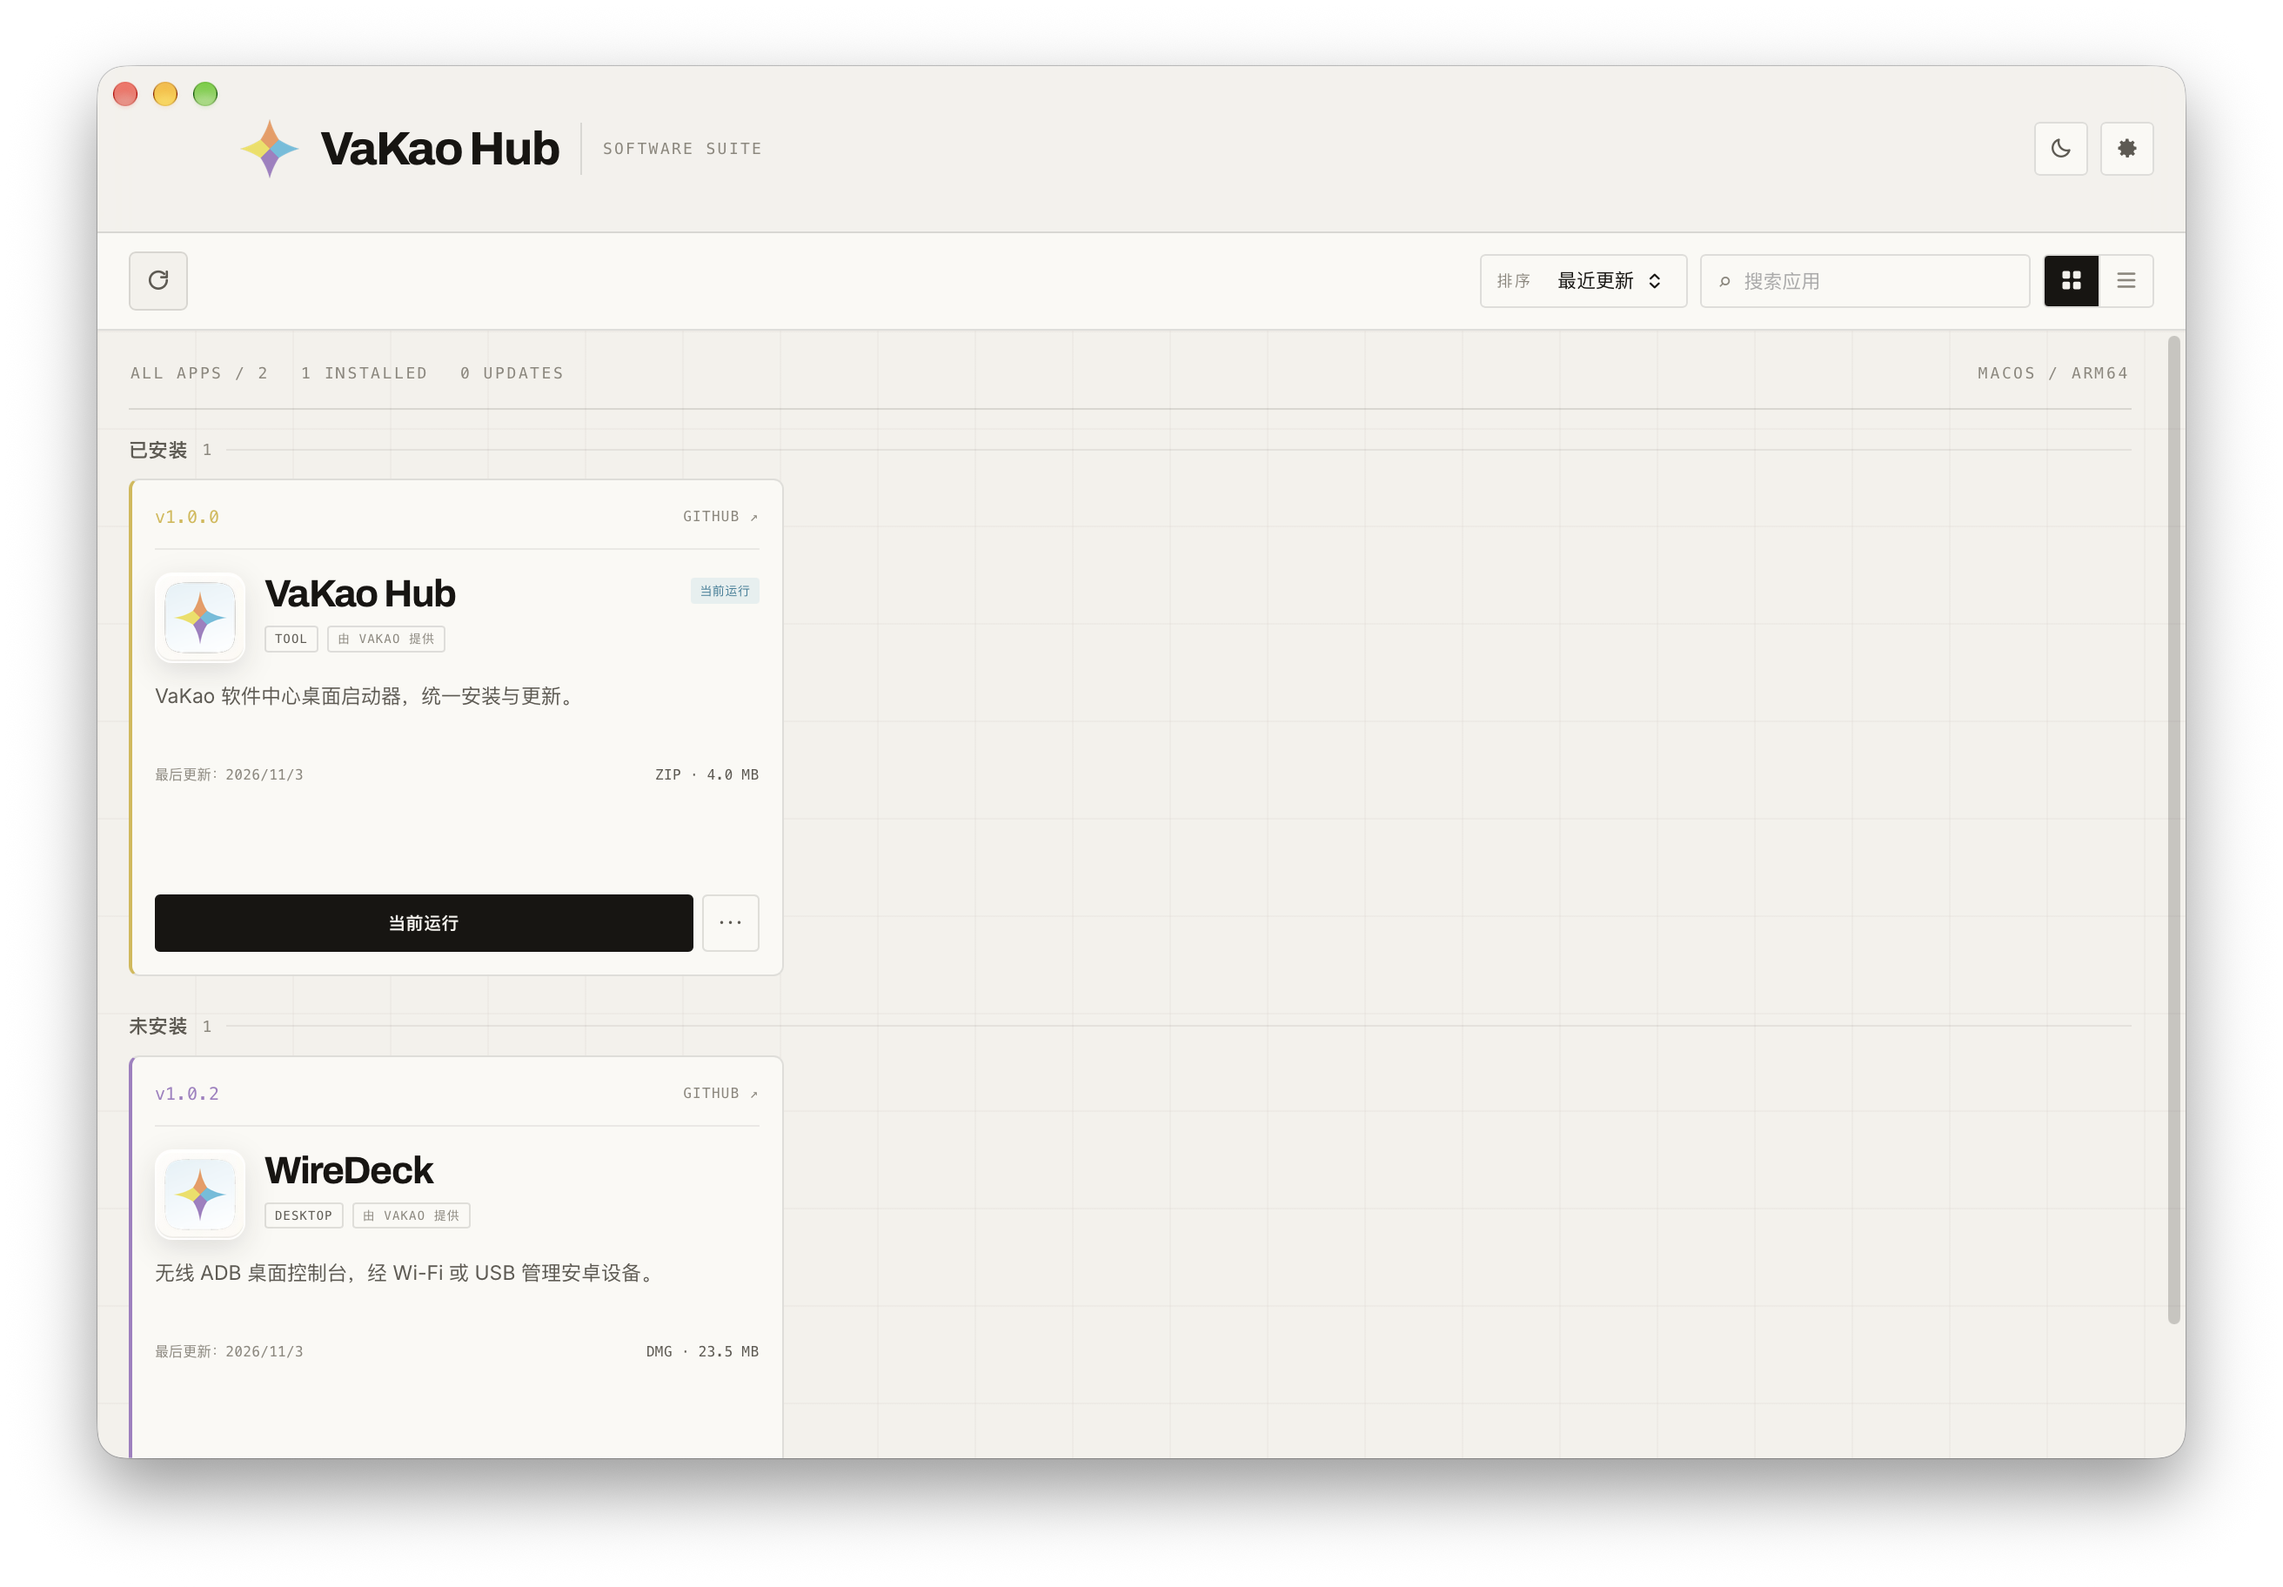
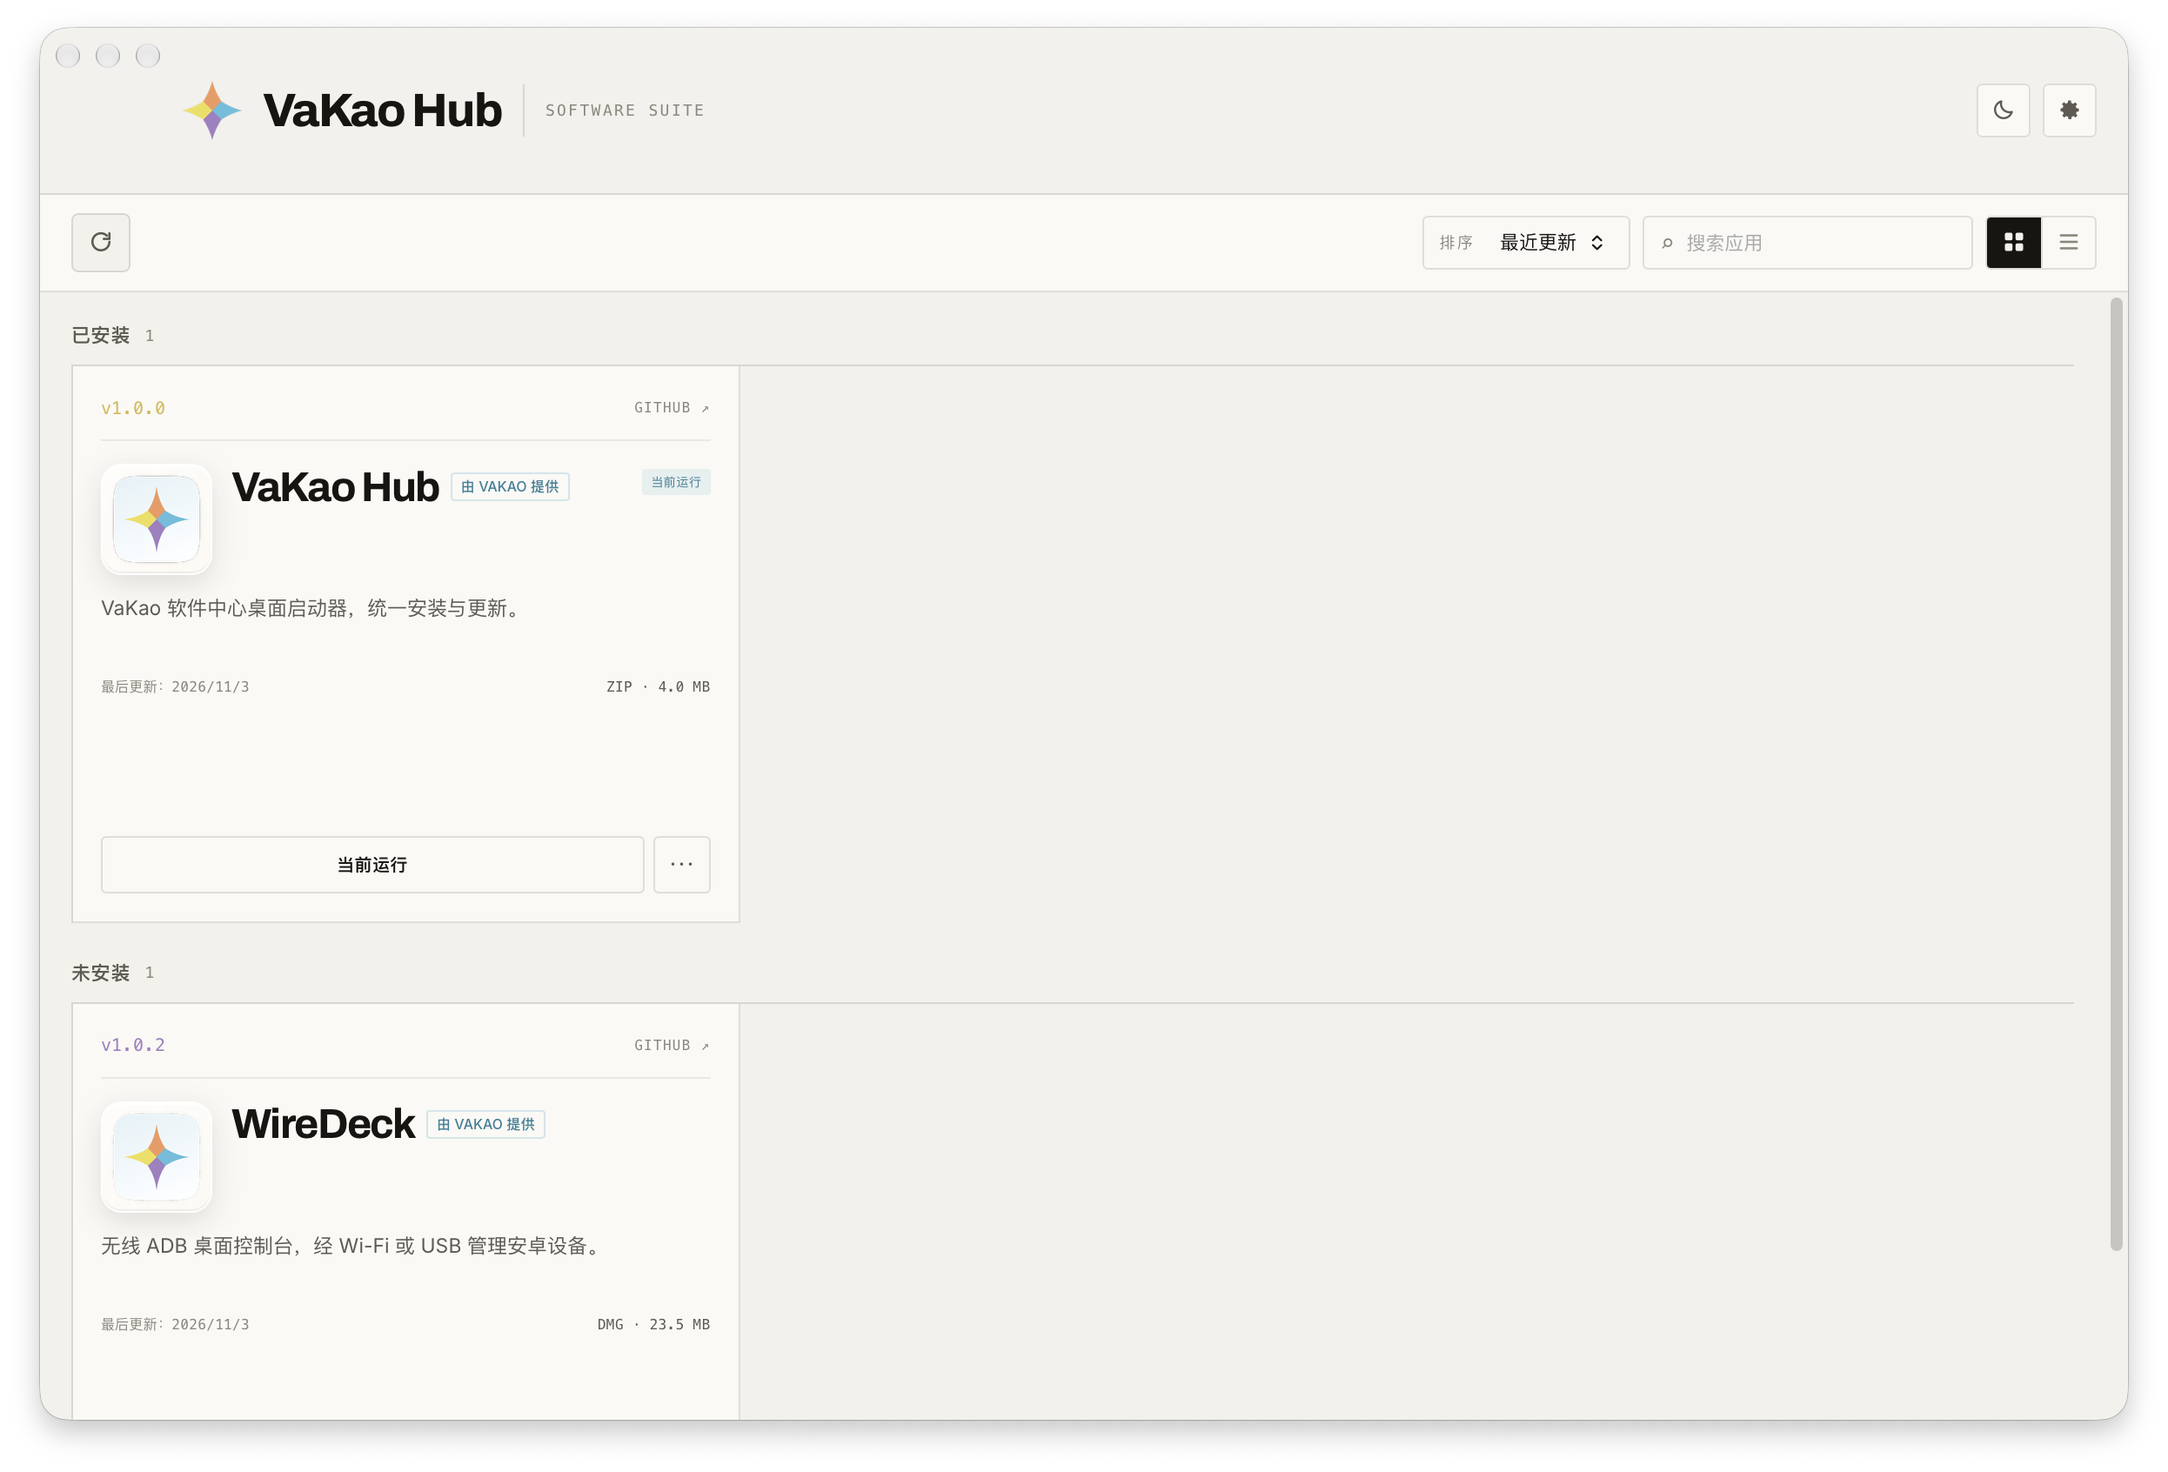
style(launcher): flatten app cards to dense grid

diff --git a/packages/launcher/frontend/src/style.css b/packages/launcher/frontend/src/style.css
@@ -356,10 +356,7 @@ button {
   min-height: 0;
   overflow-y: auto;
   padding: 16px 18px 30px;
-  background-image:
-    linear-gradient(rgba(23, 21, 18, 0.024) 1px, transparent 1px),
-    linear-gradient(90deg, rgba(23, 21, 18, 0.024) 1px, transparent 1px);
-  background-size: 56px 56px;
+  background: var(--paper);
 }
 
 .catalog-meta {
@@ -401,22 +398,25 @@ button {
 .app-grid {
   display: grid;
   grid-template-columns: repeat(3, minmax(0, 1fr));
-  gap: 11px;
+  gap: 0;
+  border-top: 1px solid var(--line);
+  border-left: 1px solid var(--line);
 }
 
 .app-card {
   position: relative;
   display: flex;
   flex-direction: column;
-  min-height: 286px;
-  padding: 13px;
-  border: 1px solid var(--line);
-  border-left: 2px solid var(--app-color, var(--line));
-  border-radius: 6px;
+  min-height: 320px;
+  padding: 16px;
+  border: 0;
+  border-right: 1px solid var(--line);
+  border-bottom: 1px solid var(--line);
+  border-radius: 0;
   background: var(--raised);
   cursor: pointer;
   overflow: hidden;
-  transition: transform 0.18s var(--ease), box-shadow 0.18s ease, border-color 0.18s ease;
+  transition: background 0.16s ease;
 }
 
 .app-card::before {
@@ -447,14 +447,11 @@ button {
 }
 
 .app-card:hover {
-  border-color: transparent;
-  border-left-color: var(--app-color, var(--line));
-  transform: translateY(-2px);
-  box-shadow: 0 10px 28px rgba(23, 21, 18, 0.08);
+  background: rgba(255, 255, 255, 0.28);
 }
 
 .app-card:hover::before {
-  opacity: 1;
+  opacity: 0;
 }
 
 .app-card::after {
@@ -474,7 +471,7 @@ button {
 }
 
 .app-card:hover::after {
-  opacity: 1;
+  opacity: 0;
 }
 
 .app-card > * {
@@ -529,10 +526,10 @@ button {
 }
 
 .app-icon {
-  width: 52px;
-  height: 52px;
+  width: 64px;
+  height: 64px;
   flex: none;
-  border-radius: 10px;
+  border-radius: 12px;
   overflow: hidden;
   display: flex;
   align-items: center;
@@ -570,14 +567,39 @@ button {
 
 .app-title h2 {
   margin: 0;
+  min-width: 0;
   font-family: var(--display);
-  font-size: 22px;
+  font-size: 24px;
   line-height: 1.12;
   font-weight: 720;
   letter-spacing: -0.035em;
   white-space: nowrap;
   overflow: hidden;
   text-overflow: ellipsis;
+}
+
+.title-line {
+  display: flex;
+  align-items: center;
+  gap: 6px;
+  min-width: 0;
+}
+
+.title-line h2 {
+  overflow: hidden;
+  text-overflow: ellipsis;
+}
+
+.provider-badge {
+  flex: none;
+  padding: 1px 5px;
+  border: 1px solid rgba(70, 166, 198, 0.24);
+  border-radius: 2px;
+  color: #2f7f99;
+  font-family: var(--body);
+  font-size: 8px;
+  font-weight: 500;
+  white-space: nowrap;
 }
 
 .provider {
@@ -1717,9 +1739,7 @@ button {
 }
 
 [data-theme='dark'] .content {
-  background-image:
-    linear-gradient(rgba(242, 239, 231, 0.028) 1px, transparent 1px),
-    linear-gradient(90deg, rgba(242, 239, 231, 0.028) 1px, transparent 1px);
+  background: var(--paper);
 }
 
 [data-theme='dark'] .icon-btn:hover {
@@ -2192,8 +2212,25 @@ button {
   font-size: 9px;
 }
 
-.app-section-rule {
-  flex: 1;
-  height: 1px;
-  background: var(--line-soft);
+
+.app-card .action {
+  border-color: var(--line);
+  background: transparent;
+  color: var(--ink);
+  font-family: var(--body);
+  font-weight: 550;
+}
+
+.app-card .action:hover {
+  border-color: var(--ink);
+  background: rgba(23, 21, 18, 0.04);
+}
+
+[data-theme='dark'] .app-card:hover {
+  background: rgba(255, 255, 255, 0.025);
+}
+
+[data-theme='dark'] .provider-badge {
+  border-color: rgba(111, 199, 227, 0.3);
+  color: #8fd8ec;
 }

diff --git a/packages/launcher/frontend/src/App.vue b/packages/launcher/frontend/src/App.vue
@@ -86,13 +86,6 @@
     </section>
 
     <main ref="contentRef" class="content">
-      <div class="catalog-meta">
-        <span class="hud">ALL APPS / {{ apps.length }}</span>
-        <span class="hud">{{ installedCount }} INSTALLED</span>
-        <span class="hud">{{ updateCount }} UPDATES</span>
-        <span class="hud right">{{ platformLabel }} / {{ arch }}</span>
-      </div>
-
       <div v-if="error" class="banner">
         <span>{{ error }}</span>
         <button @click="load">重试</button>
@@ -109,7 +102,6 @@
           <div class="app-section-head">
             <span class="hud">{{ group.label }}</span>
             <span class="app-section-count">{{ group.apps.length }}</span>
-            <span class="app-section-rule"></span>
           </div>
 
           <div class="app-grid" :class="{ 'list-mode': !gridMode }">
@@ -149,10 +141,9 @@
               <span v-else>{{ initial(app.name) }}</span>
             </div>
             <div class="app-title">
-              <h2>{{ app.name }}</h2>
-              <div class="provider">
-                <span>{{ app.category || 'application' }}</span>
-                <span>由 VAKAO 提供</span>
+              <div class="title-line">
+                <h2>{{ app.name }}</h2>
+                <span class="provider-badge">由 VAKAO 提供</span>
               </div>
             </div>
             <span v-if="app.running" class="state running">当前运行</span>

diff --git a/packages/website/index.html b/packages/website/index.html
@@ -66,7 +66,7 @@
           <div class="hero-visual" aria-hidden="true">
             <div class="visual-grid"></div>
             <div class="window">
-              <img src="./assets/screens/launcher.png?v=20261103m" alt="" />
+              <img src="./assets/screens/launcher.png?v=20261103n" alt="" />
             </div>
             <div class="float-card">
               <span class="hud">LIVE / CATALOG</span>
@@ -183,7 +183,7 @@
             <a class="button" href="#apps">下载启动器 <span aria-hidden="true">↗</span></a>
           </div>
           <figure class="inside-visual">
-            <img src="./assets/screens/launcher.png?v=20261103m" alt="VaKao Hub 启动器界面" />
+            <img src="./assets/screens/launcher.png?v=20261103n" alt="VaKao Hub 启动器界面" />
           </figure>
         </section>
       </main>
